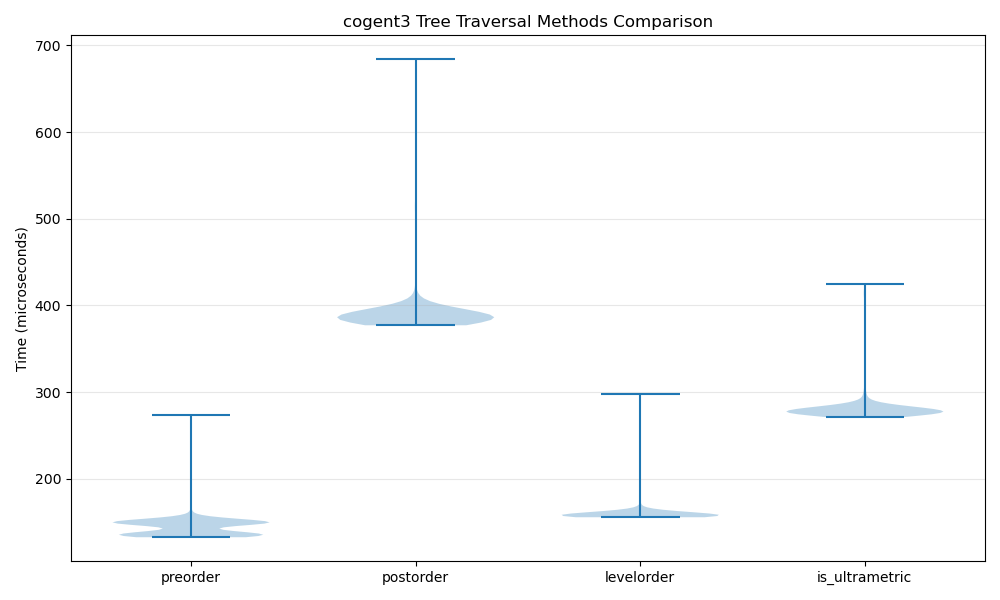
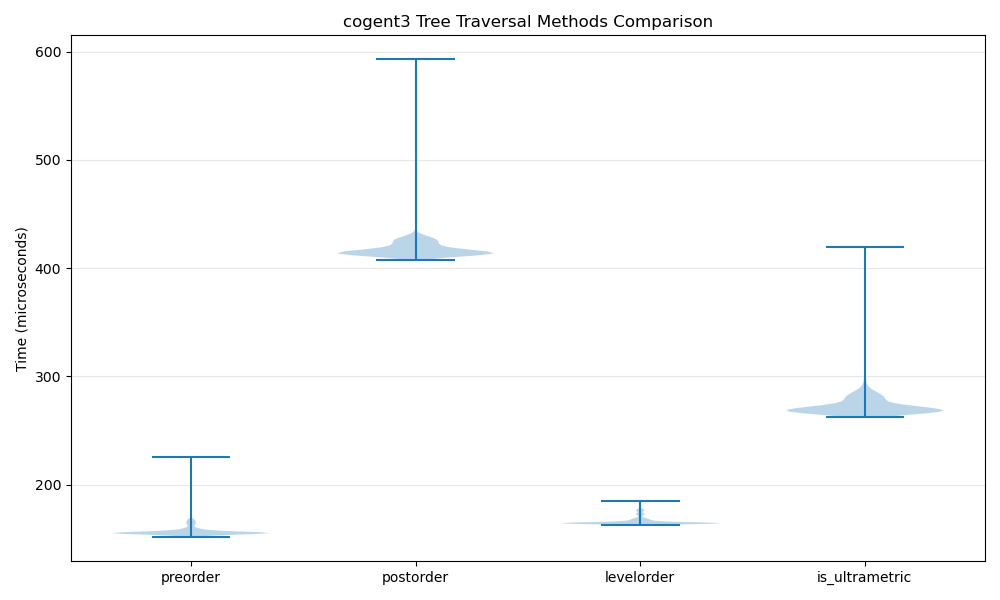
traverse scripts fix1

diff --git a/survey/traverse_toytree.py b/survey/traverse_toytree.py
@@ -38,7 +38,7 @@ def is_ultrametric(tree):
             distances.extend(get_leaf_distances(child, child_dist))
         return distances
 
-    distances = get_leaf_distances(tree.root)
+    distances = get_leaf_distances(tree.treenode)
     if len(distances) <= 1:
         return True
     return np.allclose(distances, distances[0])
@@ -50,7 +50,7 @@ print("Non-ultrametric test tree is ultrametric:", is_ultrametric(notU))
 # Print tree info
 print("\nTest tree structure:")
 print(trs)
-print("Test tree leaf count:", len(trs.get_leaves()))
+print("Test tree leaf count:", trs.ntips)
 
 
 #================================
@@ -120,12 +120,8 @@ def traverse_tree_postorder(tree):
 def traverse_tree_levelorder(tree):
     """Traverse all nodes in tree (levelorder)."""
     count = 0
-    stack = [tree.root]
-    while stack:
-        node = stack.pop(0)
+    for node in tree.traverse(strategy="levelorder"):
         count += 1
-        if not node.is_leaf():
-            stack.extend(node.children)
     return count
 
 

diff --git a/survey/traverse_ete3.py b/survey/traverse_ete3.py
@@ -7,7 +7,7 @@ Generates ultrametric trees and measures traversal time.
 import time
 import numpy as np
 import matplotlib.pyplot as plt
-from ete3 import Tree, TreeError
+from ete3 import Tree
 
 
 #================================
@@ -26,9 +26,14 @@ notU = Tree(non_ultra_newick)
 
 def is_ultrametric(tree):
     """
-    Check if all leaf nodes are equidistant from root (ete3 native method).
+    Check if all leaf nodes are equidistant from root.
+    ete3 has no native is_ultrametric(); we compute root-to-leaf distances
+    and verify they are all equal (within floating-point tolerance).
     """
-    return tree.is_ultrametric()
+    distances = [tree.get_distance(leaf) for leaf in tree.iter_leaves()]
+    if len(distances) <= 1:
+        return True
+    return np.allclose(distances, distances[0])
 
 
 print("Ultrametric test tree is ultrametric:", is_ultrametric(trs))

diff --git a/survey/traverse_biopython.py b/survey/traverse_biopython.py
@@ -127,13 +127,9 @@ def traverse_tree_postorder(tree):
 def traverse_tree_levelorder(tree):
     """Traverse all nodes in tree (level order)."""
     count = 0
-    stack = [tree.root]
-    while stack:
-        clade = stack.pop(0)
+    for clade in tree.find_clades(order="level"):
         count += 1
-        stack.extend(clade.clades)
     return count
-
 
 # Create test tree
 np.random.seed(273)

diff --git a/survey/survey.md b/survey/survey.md
@@ -45,4 +45,219 @@ for sres
 > max(sres)
 [1] 5.245209
 
+#### 2.3. ggtree
+
+A visualizer based on ape, therefore recycles its methods (no need to benchmark tree traversing)
+
+#### 2.4. dendropy
+
+#### 2.5. cogent3
+
+Generating initial test trees with cogent3...
+Ultrametric test tree is ultrametric: True
+Non-ultrametric test tree is ultrametric: True
+
+Test tree structure:
+((A:1.0,B:1.0):1.0,(C:1.0,D:1.0):1.0);
+
+Test tree tip names: ['A', 'B', 'C', 'D']
+
+Generating large ultrametric tree for benchmark...
+Starting benchmarks...
+Benchmark completed in 1.01 seconds
+
+=== cogent3 Benchmark Statistics ===
+
+preorder:
+  Mean time (µs): 156.6650
+  Median time (µs): 155.2700
+  Std dev (µs): 5.1808
+  Min time (µs): 151.2630
+  Max time (µs): 225.8520
+
+postorder:
+  Mean time (µs): 417.4327
+  Median time (µs): 415.3070
+  Std dev (µs): 8.5776
+  Min time (µs): 407.8930
+  Max time (µs): 593.0200
+
+levelorder:
+  Mean time (µs): 165.7403
+  Median time (µs): 164.3870
+  Std dev (µs): 3.3601
+  Min time (µs): 162.3540
+  Max time (µs): 184.5750
+
+is_ultrametric:
+  Mean time (µs): 272.8828
+  Median time (µs): 269.8000
+  Std dev (µs): 10.8101
+  Min time (µs): 262.4910
+  Max time (µs): 419.0740
+
+Plot saved to 'cogent3_traverse.png'
+
+
+#### 2.6. biopython
+
+>Terminal output:
+
+Generating initial test trees with biopython...
+Ultrametric test tree is ultrametric: True
+Non-ultrametric test tree is ultrametric: True
+
+Test tree structure:
+                                        _____________________________________ A
+  _____________________________________|
+ |                                     |_____________________________________ B
+_|
+ |                                      _____________________________________ C
+ |_____________________________________|
+                                       |_____________________________________ D
+
+Test tree leaf count: 4
+
+Generating large ultrametric tree for benchmark...
+Starting benchmarks...
+Benchmark completed in 94.18 seconds
+
+=== biopython Benchmark Statistics ===
+
+preorder:
+  Mean time (µs): 30317.9912
+  Median time (µs): 30182.3950
+  Std dev (µs): 1604.8641
+  Min time (µs): 28933.1090
+  Max time (µs): 51965.5300
+
+postorder:
+  Mean time (µs): 31152.5805
+  Median time (µs): 31124.3390
+  Std dev (µs): 1904.8460
+  Min time (µs): 29246.3460
+  Max time (µs): 55589.4210
+
+levelorder:
+  Mean time (µs): 28840.6855
+  Median time (µs): 28883.4305
+  Std dev (µs): 1677.7494
+  Min time (µs): 24819.7810
+  Max time (µs): 53835.1430
+
+is_ultrametric:
+  Mean time (µs): 3749.9837
+  Median time (µs): 3730.8465
+  Std dev (µs): 92.3718
+  Min time (µs): 3648.7880
+  Max time (µs): 4572.5280
+
+Plot saved to 'biopython_traverse.png'
+
+
+#### 2.7. ete3
+
+>Terminal output
+
+**ISSUE: RETURNS TRUE FOR BOTH IS.ULTRAMETRIC; fix later**
+
+Generating initial test trees with ete3...
+Ultrametric test tree is ultrametric: True
+Non-ultrametric test tree is ultrametric: True
+
+Test tree structure:
+
+      /-A
+   /-|
+  |   "\"-B
+--|
+  |   /-C
+   "\"-|
+      "\""-D
+Test tree leaf count: 4
+
+Generating large ultrametric tree for benchmark...
+Starting benchmarks...
+Benchmark completed in 85.71 seconds
+
+=== ete3 Benchmark Statistics ===
+
+preorder:
+  Mean time (µs): 2165.6035
+  Median time (µs): 2178.7040
+  Std dev (µs): 47.4163
+  Min time (µs): 2045.3240
+  Max time (µs): 2490.1380
+
+postorder:
+  Mean time (µs): 7949.7280
+  Median time (µs): 7921.4980
+  Std dev (µs): 106.0309
+  Min time (µs): 7696.7870
+  Max time (µs): 9315.1710
+
+levelorder:
+  Mean time (µs): 2043.6679
+  Median time (µs): 2037.7290
+  Std dev (µs): 53.9969
+  Min time (µs): 1980.8630
+  Max time (µs): 2894.1540
+
+is_ultrametric:
+  Mean time (µs): 73466.2594
+  Median time (µs): 72549.1290
+  Std dev (µs): 2082.2927
+  Min time (µs): 70841.1350
+  Max time (µs): 79277.1680
+
+Plot saved to 'ete3_traverse.png'
+
+#### 2.8. toytree
+
+Generating initial test trees with toytree...
+Ultrametric test tree is ultrametric: True
+Non-ultrametric test tree is ultrametric: True
+
+Test tree structure:
+<toytree.ToyTree at 0x7be0f1a49190>
+Test tree leaf count: 4
+
+Generating large ultrametric tree for benchmark...
+Starting benchmarks...
+Benchmark completed in 9.48 seconds
+
+=== toytree Benchmark Statistics ===
+
+preorder:
+  Mean time (µs): 2109.4448
+  Median time (µs): 2107.3090
+  Std dev (µs): 19.0287
+  Min time (µs): 2049.1200
+  Max time (µs): 2221.6430
+
+postorder:
+  Mean time (µs): 1891.2966
+  Median time (µs): 1892.2310
+  Std dev (µs): 15.2445
+  Min time (µs): 1840.6790
+  Max time (µs): 1975.8530
+
+levelorder:
+  Mean time (µs): 1849.0401
+  Median time (µs): 1847.5975
+  Std dev (µs): 17.0936
+  Min time (µs): 1798.4110
+  Max time (µs): 1978.1570
+
+is_ultrametric:
+  Mean time (µs): 3614.3272
+  Median time (µs): 3605.8925
+  Std dev (µs): 71.7640
+  Min time (µs): 3541.3570
+  Max time (µs): 5260.7080
+
+Plot saved to 'toytree_traverse.png'
+
+
+
 ### (3. phyl2vec?)
